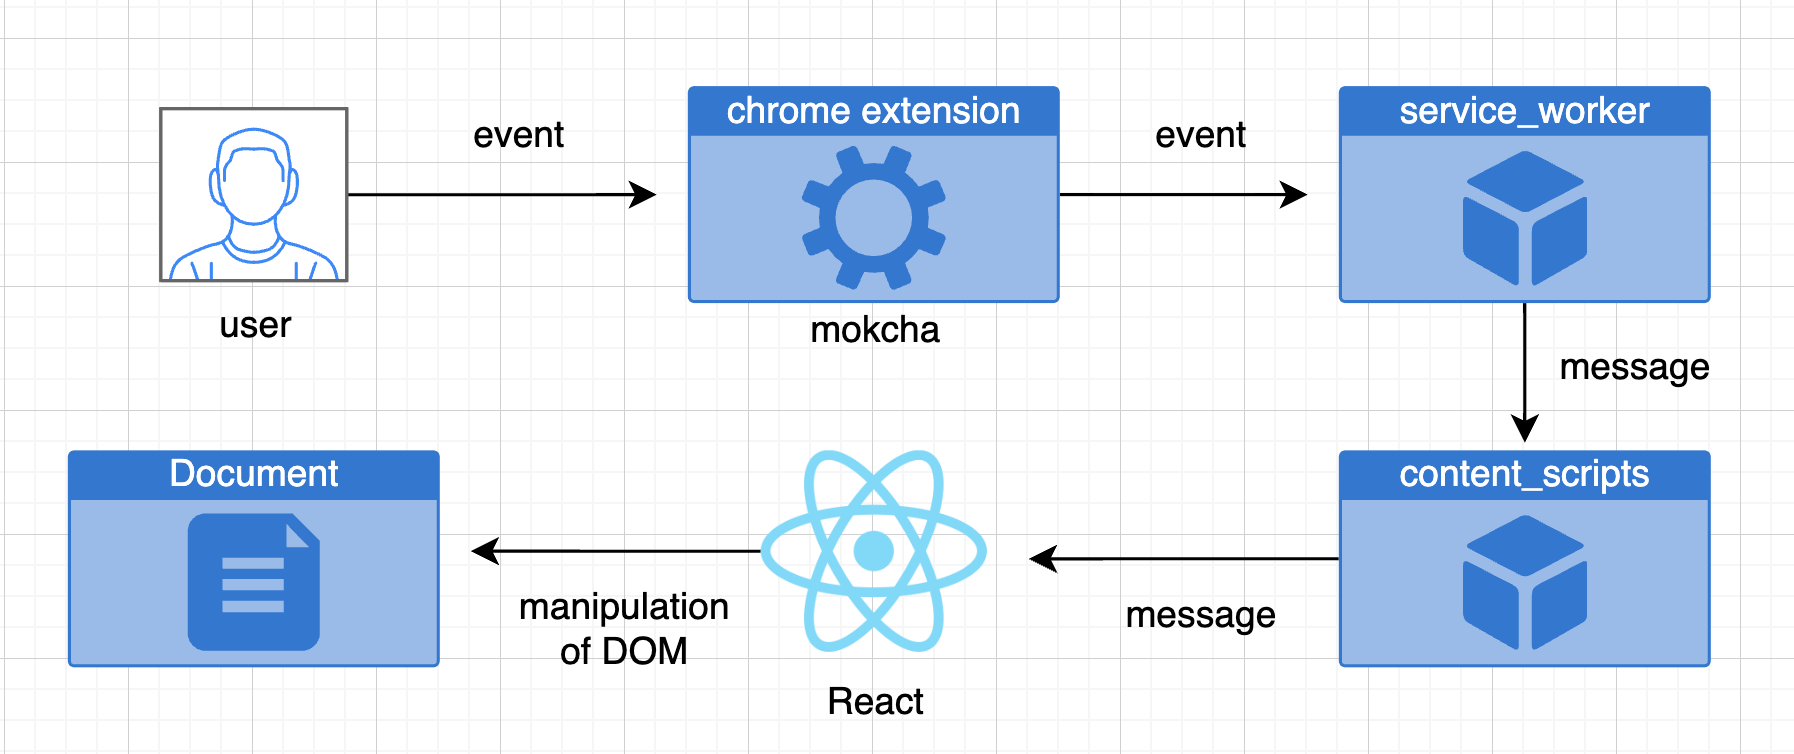
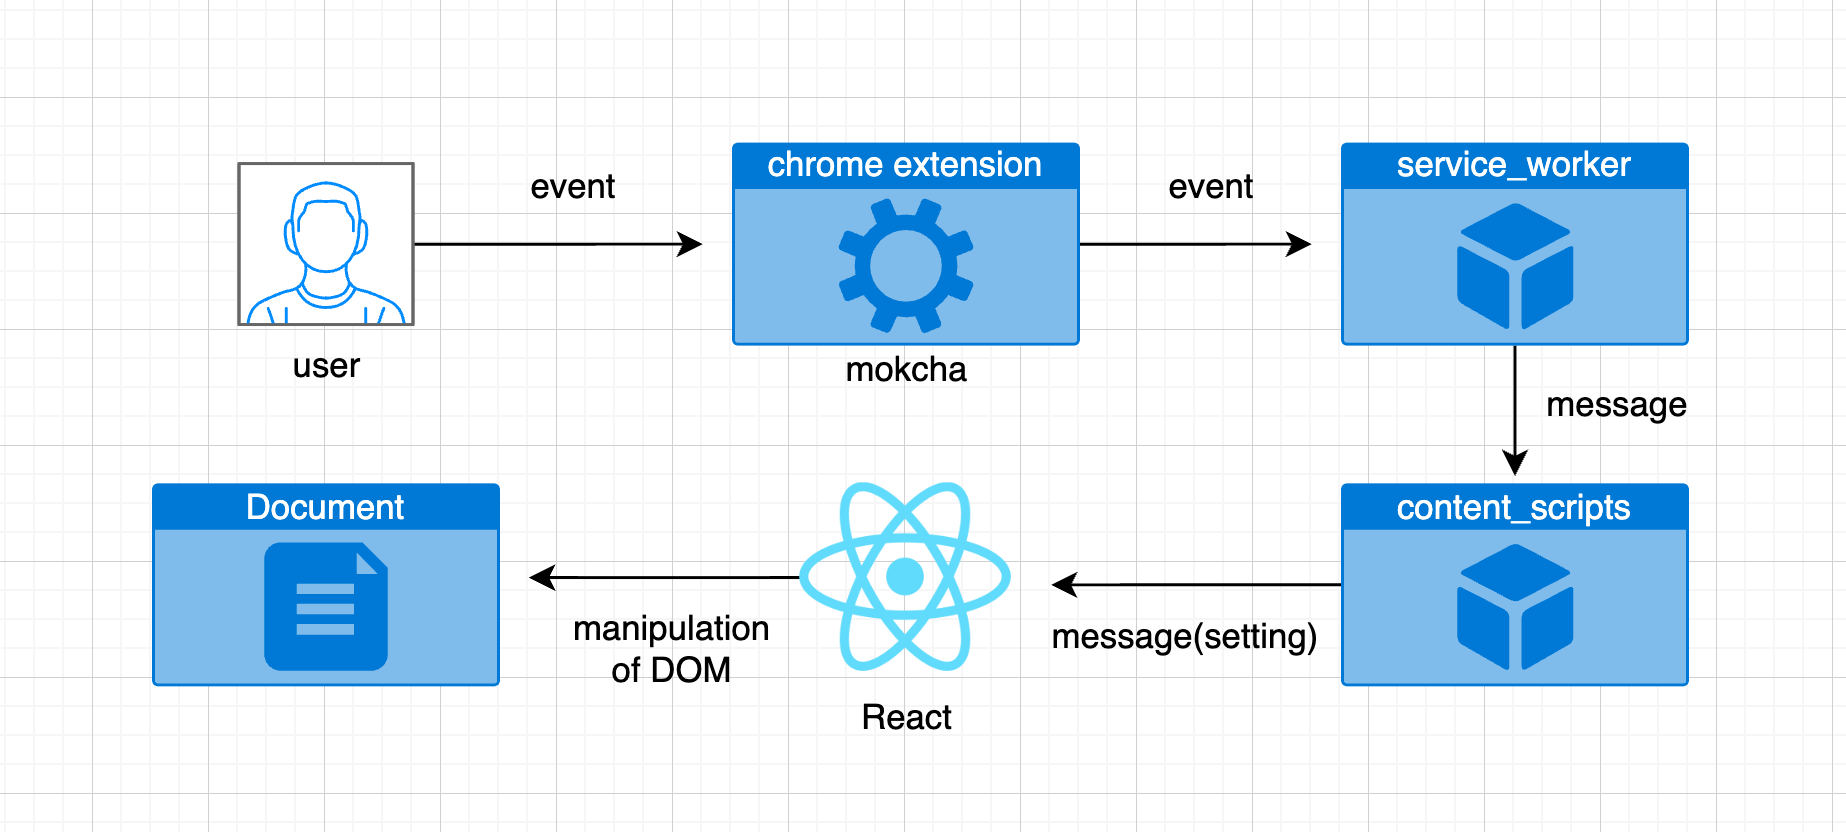
feat(toc): 이전 위치 기억 기능 (#24)
* chore(manifest.json): storage 사용을 위한 권한 추가

* feat(contentScript): 초깃값 설정 및 view에 값 전달

* chore(package.json): add zustand

* feat: toc 드래그 위치 기억 기능 추가

* feat: toc 애니메이션 제거

* refactor(content_script:setup): 초기 설정 파일 분리

* refactor(content_script:controller): 설정 파일 controller로 역할 위임

* refactor(contentScript): context provider 래핑 및 커스텀 훅으로 추출

* refactor(contentScript): storage key 상수화

* refactor(contentScript:MotionLayout): 직접 바인딩된 핸들러 분리

* feat(contentsScript): 초기 위치 viewport로 제한

* chore(docs:architecture): setting 전달 추가

diff --git a/src/contentScript/application/src/features/FloatingToc/Container.tsx b/src/contentScript/application/src/features/FloatingToc/Container.tsx
@@ -9,22 +9,31 @@ import { Header } from './Header'
 import { Layout } from './Layout'
 
 import { Divider } from '../../components/Divider'
+import { useExternalActions, useInitialPosition } from '../../store/external'
 import { TOC_INITIAL_STATE, tocReducer } from './toc.reducer'
+import type { Area } from './toc.type'
+import { parseInitialPosition } from './toc.utils'
 
 const Container = () => {
-  const [constraints, setConstraints] = useState({ left: 0, right: 0, top: 0, bottom: 0 })
+  const [constraints, setConstraints] = useState<Area | null>(null)
   const [toc, dispatch] = useReducer(tocReducer, TOC_INITIAL_STATE)
+
+  const position = useInitialPosition()
+  const { changePosition } = useExternalActions()
 
   const showBigger = toc.type === 'bigger'
 
   const controls = useDragControls()
 
   useEffect(() => {
-    setConstraints((prev) => ({
-      ...prev,
+    const constraints = {
+      left: 0,
+      top: 0,
       bottom: window.innerHeight - toc.size.height,
       right: document.documentElement.scrollWidth - toc.size.width,
-    }))
+    }
+
+    setConstraints(constraints)
   }, [toc])
 
   const handlePointerDown = (e: React.PointerEvent<HTMLDivElement>) => {
@@ -34,10 +43,23 @@ const Container = () => {
   const handleTap = () => {
     dispatch({ type: showBigger ? 'smaller' : 'bigger' })
   }
+  const hasMounted = constraints !== null
+
+  if (!hasMounted) {
+    return null
+  }
+
+  const parsedInitialPosition = parseInitialPosition(position, constraints)
 
   return (
     <Layout>
-      <MotionLayout constraints={constraints} controls={controls} tocSize={toc.size}>
+      <MotionLayout
+        constraints={constraints}
+        controls={controls}
+        tocSize={toc.size}
+        initialPosition={parsedInitialPosition}
+        onDragEnd={changePosition}
+      >
         <Header onPointerDown={handlePointerDown} showBigger={showBigger} />
 
         <Divider />

diff --git a/src/contentScript/application/src/features/FloatingToc/MotionLayout.tsx b/src/contentScript/application/src/features/FloatingToc/MotionLayout.tsx
@@ -1,5 +1,5 @@
 import { type DragControls, motion } from 'framer-motion'
-import type { MouseEvent } from 'react'
+import { type MouseEvent, useEffect, useRef } from 'react'
 
 interface Props {
   children: React.ReactNode
@@ -14,21 +14,43 @@ interface Props {
     width: number
     height: number
   }
+  initialPosition: {
+    x: number
+    y: number
+  }
+  onDragEnd: (x: number, y: number) => void
 }
 
 export const MotionLayout = (props: Props) => {
+  const containerRef = useRef<HTMLDivElement>(null)
+
   const handleDragStart = (event: MouseEvent<HTMLDivElement>) => {
     event.preventDefault()
   }
 
+  const handleDragEnd = () => {
+    if (!containerRef.current) {
+      return
+    }
+
+    const transform = window.getComputedStyle(containerRef.current).transform
+    const matrix = new DOMMatrix(transform)
+    const translateX = matrix.m41 // pixels 단위로 반환
+    const translateY = matrix.m42
+
+    props.onDragEnd(translateX, translateY)
+  }
+
   return (
     <motion.div
+      ref={containerRef}
       drag
       dragConstraints={props.constraints}
       dragControls={props.controls}
       dragListener={false}
       onMouseDown={handleDragStart}
-      animate={{ x: 200, y: 200 }}
+      initial={props.initialPosition}
+      onDragEnd={handleDragEnd}
       layout
       whileHover={{
         scale: 1.05,

diff --git a/src/contentScript/application/src/store/external/index.tsx b/src/contentScript/application/src/store/external/index.tsx
@@ -1,0 +1,43 @@
+import { type PropsWithChildren, createContext, useContext, useRef } from 'react'
+import { createStore, useStore } from 'zustand'
+import type { External } from '../../../type'
+
+type ExternalStore = ReturnType<typeof createExternalStore>
+
+const createExternalStore = (initProps: External) => {
+  return createStore<External>()((set) => ({
+    ...initProps,
+  }))
+}
+
+const ExternalContext = createContext<ExternalStore | null>(null)
+
+type TocProviderProps = PropsWithChildren<External>
+
+export const ExternalProvider = ({ children, ...props }: TocProviderProps) => {
+  const externalStoreRef = useRef<ExternalStore>()
+
+  if (!externalStoreRef.current) {
+    externalStoreRef.current = createExternalStore(props)
+  }
+
+  return (
+    <ExternalContext.Provider value={externalStoreRef.current}>{children}</ExternalContext.Provider>
+  )
+}
+
+const useExternalContext = <T,>(selector: (state: External) => T): T => {
+  const store = useContext(ExternalContext)
+
+  if (!store) throw new Error('Missing ExternalContext.Provider in the tree')
+
+  return useStore(store, selector)
+}
+
+export const useInitialPosition = () => {
+  return useExternalContext(({ position }) => position)
+}
+
+export const useExternalActions = () => {
+  return useExternalContext(({ action }) => action)
+}

diff --git a/src/contentScript/setup.ts b/src/contentScript/setup.ts
@@ -1,0 +1,44 @@
+const INITIAL_POSITION = {
+  x: 300,
+  y: 300,
+}
+
+const TOC_KEY = 'floating-toc'
+
+const storage = {
+  getToc: () => {
+    return chrome.storage.local.get([TOC_KEY])
+  },
+  setToc: (info: { position: { x: number; y: number } }) => {
+    chrome.storage.local.set({
+      [TOC_KEY]: {
+        position: info.position,
+      },
+    })
+  },
+}
+
+export interface Setting {
+  position: { x: number; y: number }
+  action: {
+    changePosition: (x: number, y: number) => void
+  }
+}
+
+export const contentsController = {
+  changePosition: (x: number, y: number) => {
+    const position = { x, y }
+
+    storage.setToc({ position })
+  },
+  getSetting: async (): Promise<Setting> => {
+    const result = await storage.getToc()
+
+    return {
+      position: result[TOC_KEY]?.position ?? INITIAL_POSITION,
+      action: {
+        changePosition: contentsController.changePosition,
+      },
+    }
+  },
+}

diff --git a/src/contentScript/application/index.tsx b/src/contentScript/application/index.tsx
@@ -1,7 +1,9 @@
+import { StrictMode, createContext, useRef, useState } from 'react'
 import React from 'react'
-import { StrictMode } from 'react'
 import { type Root, createRoot } from 'react-dom/client'
+
 import { App } from './src/App'
+import type { External } from './type'
 
 let root: Root | null = null
 const container = document.createElement('div')
@@ -9,15 +11,13 @@ container.id = 'mokcha_root'
 document.body.appendChild(container)
 
 export const application = {
-  on: () => {
-    if (!root) {
-      root = createRoot(container)
-      root.render(
-        <StrictMode>
-          <App />
-        </StrictMode>,
-      )
-    }
+  on: (external: External) => {
+    root = createRoot(container)
+    root.render(
+      <StrictMode>
+        <App setting={external} />
+      </StrictMode>,
+    )
   },
   off: () => {
     if (root) {

diff --git a/src/contentScript/application/src/features/FloatingToc/toc.utils.ts b/src/contentScript/application/src/features/FloatingToc/toc.utils.ts
@@ -1,4 +1,4 @@
-import type { HeadingInfo } from './toc.type'
+import type { Area, HeadingInfo } from './toc.type'
 
 export const getAllHeadings = () => {
   const main = document.querySelector('main')
@@ -28,4 +28,17 @@ export const parseHeadingInfo = (headings: Array<Element>): HeadingInfo[] => {
     .filter((headingInfo) => headingInfo.text !== '')
 
   return info
+}
+
+export const parseInitialPosition = (position: { x: number; y: number }, constraints: Area) => {
+  const copy = { ...position }
+
+  if (constraints.bottom < copy.y) {
+    copy.y = constraints.bottom
+  }
+  if (constraints.right < copy.x) {
+    copy.x = constraints.right
+  }
+
+  return copy
 }

diff --git a/src/contentScript/application/src/App.tsx b/src/contentScript/application/src/App.tsx
@@ -1,6 +1,17 @@
 import './index.css'
-import FloatingToc from './features/FloatingToc'
 
-export function App() {
-  return <FloatingToc />
+import type { External } from '../type'
+import FloatingToc from './features/FloatingToc'
+import { ExternalProvider } from './store/external'
+
+export interface Props {
+  setting: External
+}
+
+export function App(props: Props) {
+  return (
+    <ExternalProvider {...props.setting}>
+      <FloatingToc />
+    </ExternalProvider>
+  )
 }

diff --git a/src/contentScript/event.ts b/src/contentScript/event.ts
@@ -1,8 +1,11 @@
 import { application } from './application/index'
+import { contentsController } from './setup'
 
-chrome.runtime.onMessage.addListener((message, sender, sendResponse) => {
+chrome.runtime.onMessage.addListener(async (message, sender, sendResponse) => {
   if (message.status === 'on') {
-    application.on()
+    const setting = await contentsController.getSetting()
+
+    application.on(setting)
   }
 })
 

diff --git a/src/contentScript/application/src/features/FloatingToc/toc.type.ts b/src/contentScript/application/src/features/FloatingToc/toc.type.ts
@@ -3,3 +3,5 @@ export type HeadingInfo = {
   id: string
   level: number
 }
+
+export type Area = { left: number; right: number; top: number; bottom: number }

diff --git a/src/contentScript/application/type.ts b/src/contentScript/application/type.ts
@@ -1,0 +1,3 @@
+import type { Setting } from '../setup'
+
+export type External = Setting

diff --git a/docs/code/architecture.md b/docs/code/architecture.md
@@ -4,4 +4,5 @@
 ![diagram](/docs/assets/architecture_diagram.png)
 
 ## Related PR
-- [#2](https://github.com/SaeWooKKang/Floating-Table-of-Contents/pull/2#issue-2541561786)
+- [아키텍처 개선 #2](https://github.com/SaeWooKKang/Floating-Table-of-Contents/pull/2#issue-2541561786)
+- [위치 기억 기능](https://github.com/SaeWooKKang/Floating-Table-of-Contents/issues/23#issue-2616369327)
